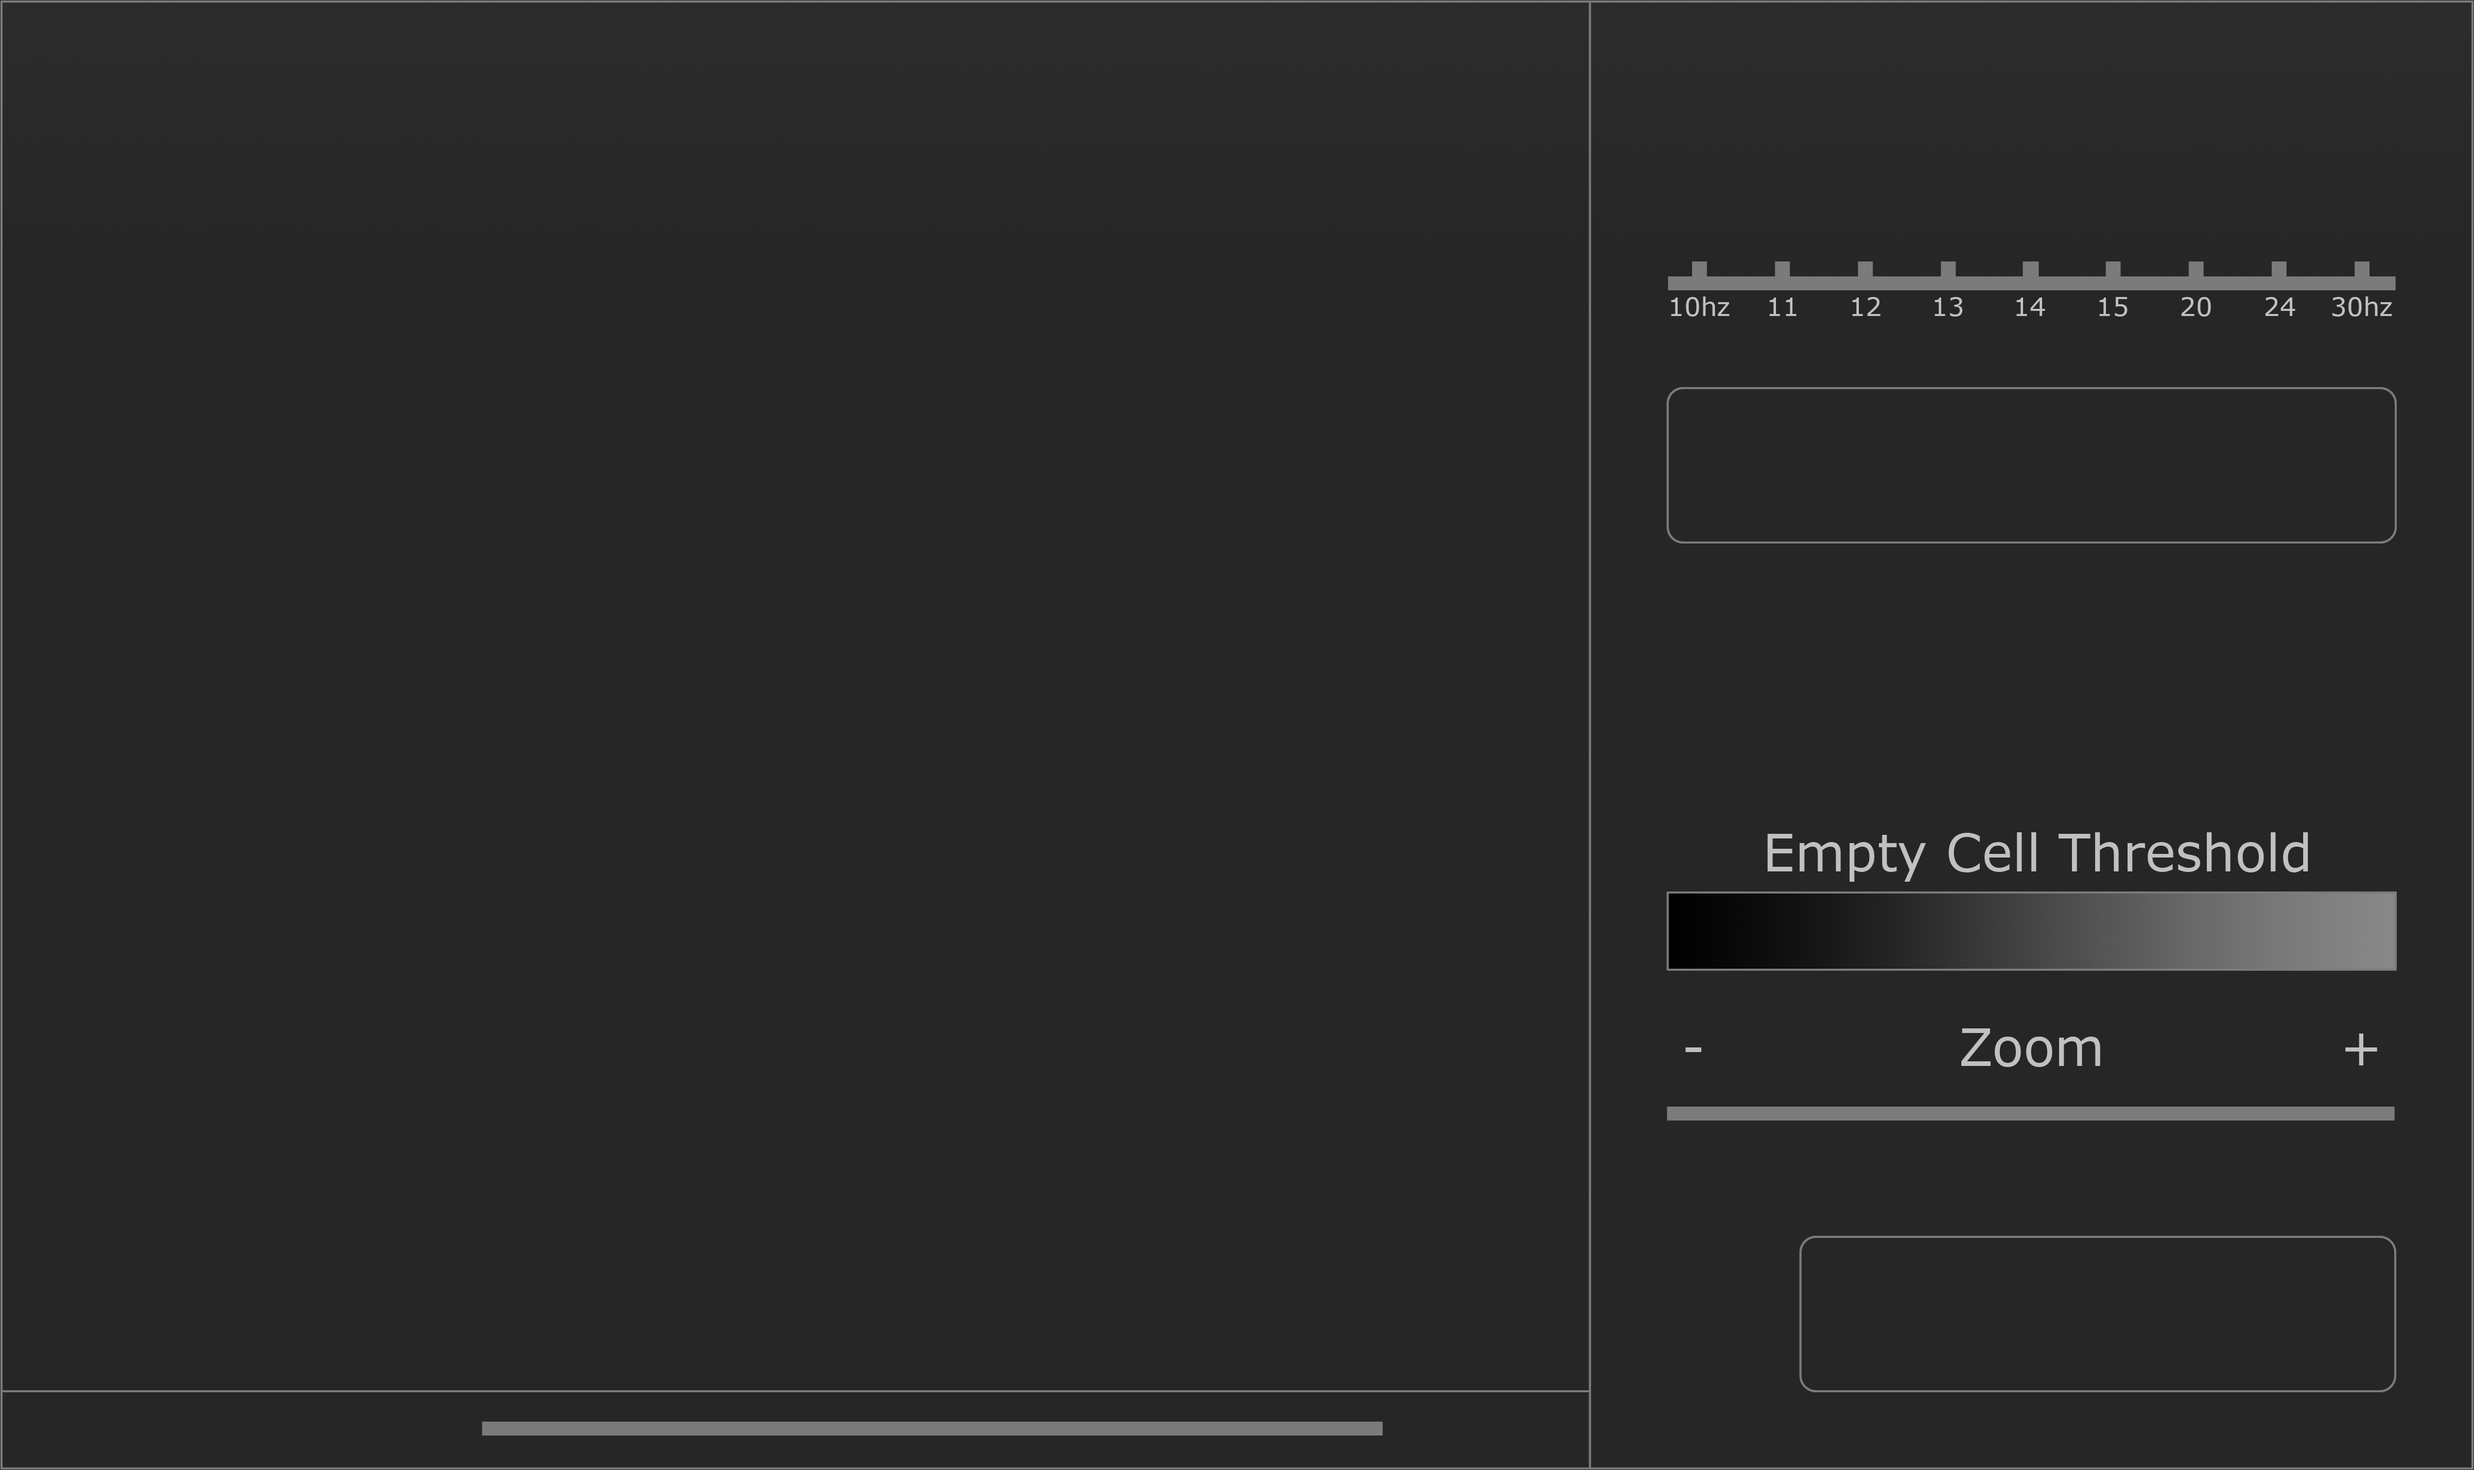
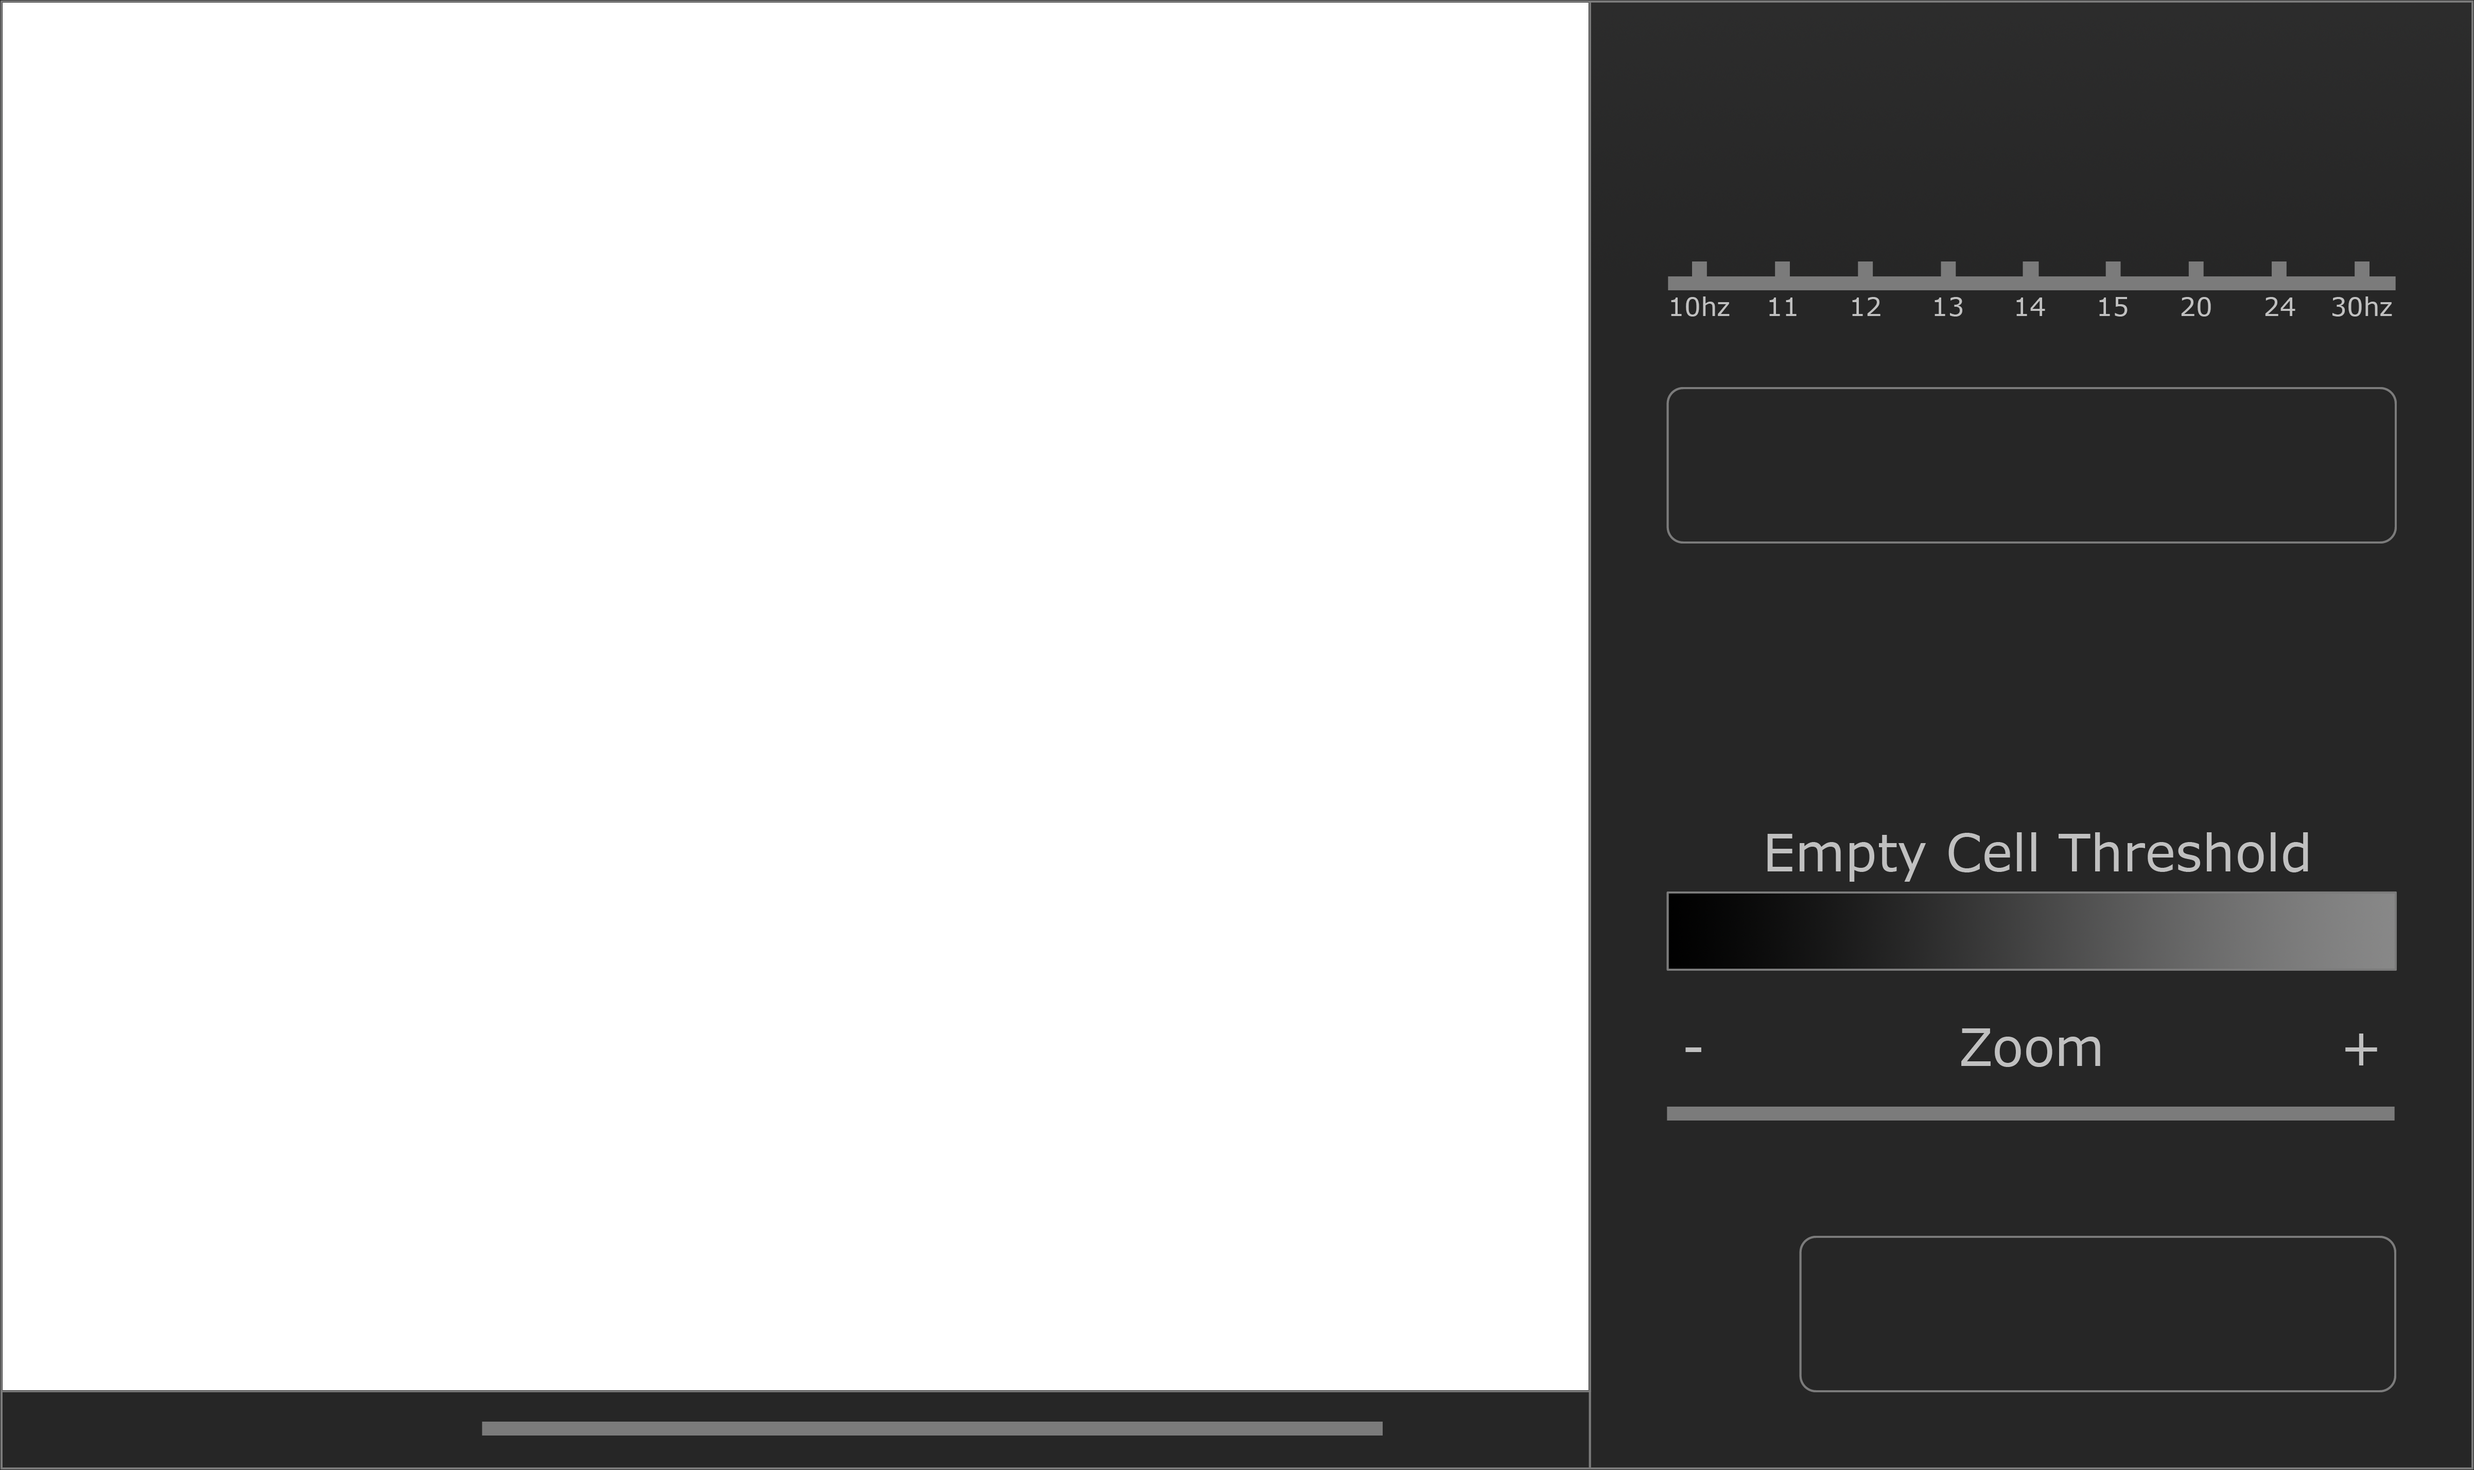
new: Fix bounds rendering on UI, add numbers to multi-field

diff --git a/calibrate/bounds.py b/calibrate/bounds.py
@@ -14,9 +14,14 @@ and right few pixels since they are black.
 import numpy as np
 import pygame
 from colors import (
-PURE_BLUE, BRIGHT_BLUE, BRIGHT_RED, BRIGHT_GREEN, COLOR_CYCLE
-)  #todo: remove this dependency.
-
+BLACK,
+PURE_BLUE, 
+BRIGHT_BLUE, 
+BRIGHT_RED, 
+BRIGHT_GREEN, 
+COLOR_CYCLE
+)
+from calibrate.rect import Rect
 
 from TetrisUtility import clamp, distance #todo: remove this dependency
 from enum import Enum
@@ -89,6 +94,14 @@ class Bounds:
         
         self.enable_drag = True
         self.enable_click = True
+        self.board_index = None
+
+    def set_board_index(self, index):
+        """
+        Sets the board's index, in the case that we want the user
+        to be able to pick between boards
+        """
+        self.board_index = index
 
     def setDotColor(self, color_off=BRIGHT_RED,color_on=BRIGHT_GREEN):
         self.dot_color_on = color_on
@@ -143,8 +156,6 @@ class Bounds:
         else: # field
             self.setSubRect((0.01,0.0,0.99,0.993)) #todo, read from autolayout
             self.sub_rect_name = "field"
-
-    
 
     def mouseNearDot(self, mx, my):
         mx, my = self.convert_to_video_px(mx,my)
@@ -346,7 +357,22 @@ class Bounds:
                 color = self.dot_color_on if exists else self.dot_color_off
                 pygame.draw.circle(surface, color, [x,y], (r+2) if exists else r, width = (0 if exists else 3))
 
+        # present text for the board so people know which index it is
+        if self.board_index is not None:
+            rect = Rect(x1,y1,x2,y2)
+            self.render_board_index(surface, rect)
+
         return minos
+    
+    def render_board_index(self, surface, rect):
+        black_size = 40
+        black_area = [rect.centre[0] - black_size, rect.centre[1] - black_size,
+                        black_size*2, black_size*2]
+        pygame.draw.rect(surface, BLACK, black_area) #draw black rect
+        pygame.draw.rect(surface, self.color, black_area, width=2) #draw colored rectangle
+        text_image = self.config.fontbig.render(str(self.board_index), True, self.color)
+        start_x = rect.centre[0] - text_image.get_width() // 2
+        surface.blit(text_image, [start_x, black_area[1]])
 
     def to_json(self):
         return {"firstClick": self.firstClick,
@@ -374,6 +400,8 @@ class BoundsPicker:
     """ 
     def __init__(self, board_list, config, on_pick, isNextBox):
         self.boards = board_list #board + suggestion
+        #sort boards from left to right, top to bottom
+        self.boards.sort(key=lambda x: (x[0][:2]))
         self.bounds = []
         self.config = config
         self.on_pick = on_pick
@@ -392,8 +420,12 @@ class BoundsPicker:
             bound.disable_mouse_input()
             bound.doNotDisplay = False
             bound.setDotColor(bound.color,bound.color)
+            bound.set_board_index(index+1)
             self.bounds.append(bound)
 
+
+    def handle_keyboard_input(self, event):
+        pass
 
     def updateMouse(self, mx, my, pressDown, pressUp):
         return False

diff --git a/Callibration.py b/Callibration.py
@@ -110,11 +110,7 @@ class Calibrator:
     def callibrate(self):
         c.isAnalysis = False
         while True:
-            c.realscreen.fill([38,38,38])
-            # draw backgound
-            c.screen.blit(BACKGROUND_IMAGE[c.gamemode],[0,0])
-
-            surf = c.displayTetrisImage(self.frame)
+            
             self.mouse_status.start_frame_update()
             self.buttons.updatePressed(*self.mouse_status.pygame_button_handler())
             self.handle_video_buttons()
@@ -123,10 +119,10 @@ class Calibrator:
             self.handle_pal_button()
             self.handle_save_button()
             self.handle_load_button()
-
-            self.update_bounds()
+            self.handle_bounds()
             self.update_video_drag()
             
+
             result = self.handle_render_button(force = self.enterPressed)
             if result is not None:
                 if len(result) == 0:
@@ -134,8 +130,14 @@ class Calibrator:
                 else: 
                     return result
             
+            # rendering time. Note that order matters, since we need
+            # to cover up the rendering of bounds on the tetris image.
+            c.realscreen.fill([38,38,38])
+            c.displayTetrisImage(self.frame)
+            self.render_bounds() # this can blit into the ui area
+            c.screen.blit(BACKGROUND_IMAGE[c.gamemode],[0,0])            
+            self.update_video_sliders() #renders and calcuates at same time.
             self.render_sliders() # note this updates some values
-            self.update_video_sliders()
             self.render_error()
             self.render_text()
             self.buttons.display(c.screen,
@@ -479,7 +481,7 @@ class Calibrator:
     def clear_boundsManager(self):
         self.boundsManager = None
 
-    def update_bounds(self):
+    def handle_bounds(self):
         for bound, deassign in [(self.bounds, self.clear_bounds),
                                 (self.nextBounds, self.clear_nextBounds),
                                 (self.boundsManager, self.clear_boundsManager)]:
@@ -488,8 +490,7 @@ class Calibrator:
                 delete = bound.updateMouse(*self.mouse_status.bounds_handler())
                 if delete:
                     deassign()
-                else:
-                    bound.displayBounds(c.screen, nparray = self.frame)
+
     
     def handle_bounds_click(self):
         for item in [self.boundsManager, self.bounds, self.nextBounds]:
@@ -575,6 +576,11 @@ class Calibrator:
             
         print("loaded preset", data)
         self.error = ErrorMessage("Callibration preset loaded.", WHITE)
+
+    def render_bounds(self):
+        for bound in (self.bounds, self.nextBounds, self.boundsManager):
+            if bound is not None:
+                bound.displayBounds(c.screen, nparray=self.frame)
 
     def render_sliders(self):
         slider_args = self.mouse_status.slider_handler()

diff --git a/calibrate/autolayout.py b/calibrate/autolayout.py
@@ -110,74 +110,3 @@ LAYOUTS = {"STANDARD": Layout("Standard", (0.5,0.5), PREVIEW_LAYOUTS["STANDARD"]
            "MOC_BOTRIGHT": Layout("MaxoutClub", (0.556,0.669), PREVIEW_LAYOUTS["MOC4pRight"]) #ctwc 4p
           }
 
-class Rect:
-    def __init__(self, left, top, right, bottom):
-        self.left = left
-        self.top = top
-        self.right = right
-        self.bottom = bottom
-    
-    @property
-    def width(self):
-        return self.right - self.left
-    
-    @property
-    def height(self):
-        return self.bottom - self.top
-
-    @property
-    def area(self):
-        return self.width * self.height
-
-    @property
-    def centre(self):
-        return (self.left + 0.5* self.width,
-               self.top + 0.5 * self.height)
-
-    def to_array(self):
-        return (self.left, self.top, self.right, self.bottom)
-    
-    def __str__(self):
-        return str(self.to_array())
-   
-    def __eq__(self, other):
-        if isinstance(other, Rect):
-            return (self.left == other.left and
-                   self.top == other.top and
-                   self.right == other.right and
-                   self.bottom == other.bottom)
-        return False
-    
-    def contains(self, xy):
-        return (self.left <= xy[0] <= self.right and 
-               self.top <= xy[1] <= self.bottom)
-
-    def within(self, yx):
-        """
-        returns if rectangle is within an image with given y/x size.
-        """
-        return (0 <= self.left <= self.right <= yx[1] and 
-                0 <= self.top <= self.bottom <= yx[0])
-           
-    def multiply(self, constant):
-        self.left = self.left * constant
-        self.top = self.top * constant
-        self.right = self.right * constant
-        self.bottom = self.bottom* constant
-    
-    def round_to_int(self):
-        self.left = round(self.left)
-        self.top = round(self.top)
-        self.right = round(self.right)
-        self.bottom= round(self.bottom)
-
-    def sq_distance(self, point):
-        """
-        square distance from center of rect to point.
-        Because math.sqrt is expensive yo
-        """
-        you = self.centre #you self.centred b****
-        xdist = (you[0] - point[0]) 
-        ydist = (you[1] - point[1])
-        result = xdist*xdist + ydist*ydist
-        return result

diff --git a/calibrate/rect.py b/calibrate/rect.py
@@ -1,0 +1,75 @@
+"""
+Rect class.
+I'm sure that pygame has one but lets make our own one.
+"""
+class Rect:
+    def __init__(self, left, top, right, bottom):
+        self.left = left
+        self.top = top
+        self.right = right
+        self.bottom = bottom
+    
+    @property
+    def width(self):
+        return self.right - self.left
+    
+    @property
+    def height(self):
+        return self.bottom - self.top
+
+    @property
+    def area(self):
+        return self.width * self.height
+
+    @property
+    def centre(self):
+        return (self.left + 0.5* self.width,
+               self.top + 0.5 * self.height)
+
+    def to_array(self):
+        return (self.left, self.top, self.right, self.bottom)
+    
+    def __str__(self):
+        return str(self.to_array())
+   
+    def __eq__(self, other):
+        if isinstance(other, Rect):
+            return (self.left == other.left and
+                   self.top == other.top and
+                   self.right == other.right and
+                   self.bottom == other.bottom)
+        return False
+    
+    def contains(self, xy):
+        return (self.left <= xy[0] <= self.right and 
+               self.top <= xy[1] <= self.bottom)
+
+    def within(self, yx):
+        """
+        returns if rectangle is within an image with given y/x size.
+        """
+        return (0 <= self.left <= self.right <= yx[1] and 
+                0 <= self.top <= self.bottom <= yx[0])
+           
+    def multiply(self, constant):
+        self.left = self.left * constant
+        self.top = self.top * constant
+        self.right = self.right * constant
+        self.bottom = self.bottom* constant
+    
+    def round_to_int(self):
+        self.left = round(self.left)
+        self.top = round(self.top)
+        self.right = round(self.right)
+        self.bottom= round(self.bottom)
+
+    def sq_distance(self, point):
+        """
+        square distance from center of rect to point.
+        Because math.sqrt is expensive yo
+        """
+        you = self.centre #you self.centred b****
+        xdist = (you[0] - point[0]) 
+        ydist = (you[1] - point[1])
+        result = xdist*xdist + ydist*ydist
+        return result

diff --git a/config.py b/config.py
@@ -142,11 +142,13 @@ def getVideo():
 
 # Draw video frame
 def displayTetrisImage(frame):
-
+    """
+    uses bounded surf so we don't overblit into the GUI
+    """
     frame = frame.transpose(1,0,2) # convert from BGR to RGB
     surf = pygame.surfarray.make_surface(frame)
     surf = scaleImage(surf, SCALAR)
-    boundedSurf = pygame.Surface([X_MAX,Y_MAX])
+    boundedSurf = pygame.Surface([X_MAX+1,Y_MAX+1])
     boundedSurf.blit(surf,[VIDEO_X, VIDEO_Y])
     screen.blit(boundedSurf, (0, 0))
     return surf

diff --git a/calibrate/autofindfield.py b/calibrate/autofindfield.py
@@ -10,8 +10,9 @@ find_piece, calc_new_rect, BLOCKMATCH_SCALE_FACTOR
 )
 
 from calibrate.autolayout import (
-Rect, PREVIEW_LAYOUTS, LAYOUTS, PreviewLayout
+PREVIEW_LAYOUTS, LAYOUTS, PreviewLayout
 )
+from calibrate.rect import Rect
 
 NES_PIXELS_BOARD_HEIGHT = 160
 NES_PIXELS_BOARD_WIDTH = 80

diff --git a/calibrate/blockmatch.py b/calibrate/blockmatch.py
@@ -14,7 +14,7 @@ import argparse
 import glob
 import cv2
 import math
-from calibrate.autolayout import Rect
+from calibrate.rect import Rect
 
 # that means minos are 64px by 64px roughly
 BLOCKMATCH_SCALE_FACTOR = 8.0
